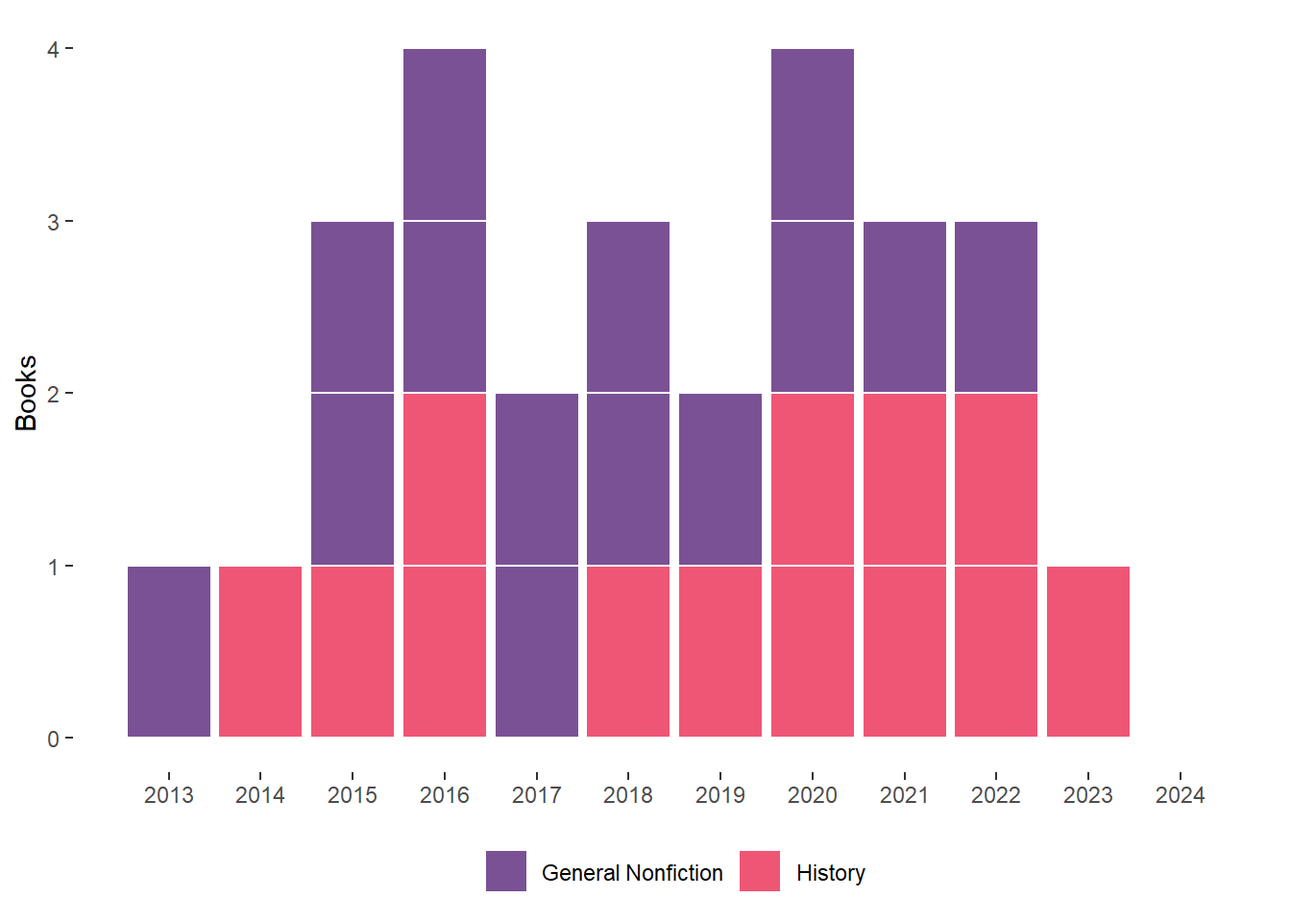
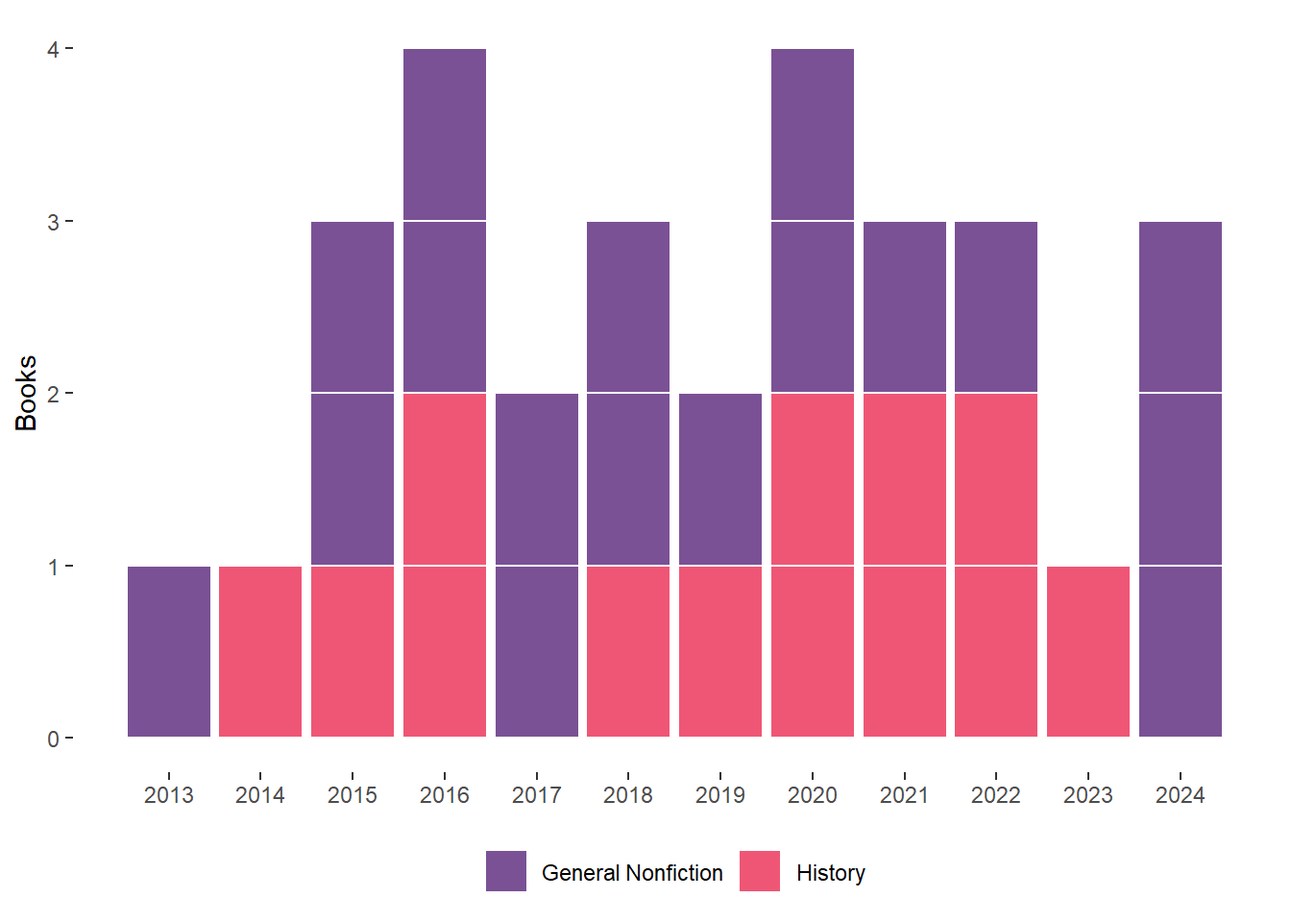
Add a few books and re-run

Changed region(s): [[0.875, 0.2188, 0.9688, 0.8125]]

diff --git a/pullitzer.html b/pullitzer.html
@@ -13,7 +13,7 @@
 
 <title>Pulitzer Progress</title>
 
-<script src="site_libs/header-attrs-2.26/header-attrs.js"></script>
+<script src="site_libs/header-attrs-2.27/header-attrs.js"></script>
 <script src="site_libs/jquery-3.6.0/jquery-3.6.0.min.js"></script>
 <meta name="viewport" content="width=device-width, initial-scale=1" />
 <link href="site_libs/bootstrap-3.3.5/css/bootstrap.min.css" rel="stylesheet" />
@@ -35,8 +35,8 @@
 <script src="site_libs/core-js-2.5.3/shim.min.js"></script>
 <script src="site_libs/react-18.2.0/react.min.js"></script>
 <script src="site_libs/react-18.2.0/react-dom.min.js"></script>
-<script src="site_libs/reactwidget-1.0.0/react-tools.js"></script>
-<link href="site_libs/htmltools-fill-0.5.8/fill.css" rel="stylesheet" />
+<script src="site_libs/reactwidget-2.0.0/react-tools.umd.cjs"></script>
+<link href="site_libs/htmltools-fill-0.5.8.1/fill.css" rel="stylesheet" />
 <script src="site_libs/htmlwidgets-1.6.4/htmlwidgets.js"></script>
 <link href="site_libs/reactable-0.4.4/reactable.css" rel="stylesheet" />
 <script src="site_libs/reactable-binding-0.4.4/reactable.js"></script>
@@ -296,8 +296,8 @@ class="section level5">
 <h2>The full list</h2>
 <p>These are the finalists and winners of general nonfiction and
 history, and my progress in reading them.</p>
-<div class="reactable html-widget html-fill-item" id="htmlwidget-27e1b85ea96d586fce6d" style="width:auto;height:auto;"></div>
-<script type="application/json" data-for="htmlwidget-27e1b85ea96d586fce6d">{"x":{"tag":{"name":"Reactable","attribs":{"data":{"year":[2024,2024,2024,2024,2024,2024,2023,2023,2023,2023,2023,2023,2023,2022,2022,2022,2022,2022,2022,2021,2021,2021,2021,2021,2021,2020,2020,2020,2020,2020,2020,2019,2019,2019,2019,2019,2019,2018,2018,2018,2018,2018,2018,2017,2017,2017,2017,2017,2017,2016,2016,2016,2016,2016,2016,2016,2015,2015,2015,2015,2015,2015,2014,2014,2014,2014,2014,2014,2013,2013,2013,2013,2013,2013,2012,2012,2012,2012,2012,2011,2011,2011,2011,2011,2011,2010,2010,2010],"short.title":["No Right to an Honest Living","American Anarchy","Continental Reckoning","A Day in the Life of Abed Salama","Fire Weather","Cobalt Red","Freedom's Dominion","Seeing Red","Watergate","His Name Is George Floyd","Kingdom of Characters","Sounds Wild and Broken","Under the Skin","Covered with Night","Cuba","Until Justice Be Done","Invisible Child","Home, Land, Security","The Family Roe","Franchise","The Three-Cornered War","The Deviant's War","Wilmington's Lie","Minor Feelings","Yellow Bird","Sweet Taste of Liberty ","Race for Profit","The End of the Myth ","The Undying","Solitary","Elderhood","Frederick Douglass ","American Eden ","Civilizing Torture ","Amity and Prosperity","In a Day's Work","Rising","The Gulf","Fear City","Hitler in Los Angeles ","Locking Up Our Own ","Notes on a Foreign Country ","The Evolution of Beauty","Blood in the Water ","Brothers at Arms","New England Bound","Evicted","In a Different Key ","The Politics of Mourning ","Custer's Trials","Marching Home","Target Tokyo","The Pentagon's Brain","Black Flags","Between the World and Me","If the Oceans Were Ink ","Encounters at the Heart of the World","An Empire on the Edge","Empire of Cotton","The Sixth Extinction","Age of Ambition","No Good Men Among the Living","The Internal Enemy","A Dreadful Deceit","Command and Control","Toms River","The Blood Telegram","The Insurgents","Embers of War","Lincoln's Code","The Barbarous Years","Devil in the Grove","Behind the Beautiful Forevers","The Forest Unseen","Malcolm X","Empires, Nations & Families","Railroaded","The Eleventh Day","Minor Feelings","The Fiery Trial","Confederate Reckoning","Eden on the Charles","The Emperor of All Maladies","Empire of the Summer Moon","The Shallows","Lords of Finance","Empire of Liberty","Fordlandia"],"author":["Jacqueline Jones","Michael Willrich","Elliott West","Nathan Thrall","John Vaillant","Siddharth Kara","Jefferson Cowie","Michael John Witgen","Garrett M. Graff","Robert Samuels and Toluse Olorunnipa","Jing Tsu","David George Haskell","Linda Villarosa","Nicole Eustace","Ada Ferrer","Kate Masur","Andrea Elliott","Carla Power","Joshua Prager","Marcia Chatelain","Megan Kate Nelson","Eric Cervini","David Zucchino","Cathy Park Hong","Sierra Crane Murdoch","W. Caleb McDaniel","Keeanga-Yamahtta Taylor","Greg Grandin","Anne Boyer","Albert Woodfox","Louise Aronson","David W. Blight","Victoria Johnson","W. Fitzhugh Brundage","Eliza Griswold","Bernice Yeung","Elizabeth Rush","Jack E. Davis","Kim Phillips-Fein","Steven J. Ross","James Forman Jr.","Suzy Hansen","Richard O. Prum","Heather Ann Thompson","Larrie D. Ferreiro","Wendy Warren","Matthew Desmond","John Donvan and Caren Zucker","Micki McElya","T.J. Stiles","Brian Matthew Jordan","James M. Scott","Annie Jacobsen","Joby Warrick","Ta-Nehisi Coates","Carla Power","Elizabeth A. Fenn","Nick Bunker","Steven Beckert","Elizabeth Kolbert","Evan Osnos","Anand Gopal","Alan Taylor","Jacqueline Jones","Eric Schlosser","Dan Fagin","Gary J. Bass","Fred Kaplan","Fredrik Logeval","John Fabian Witt","Bernard Bailyn","Gilbert King","Katherine Boo","David George Haskell","Manning Marable","Anne F. Hyde","Richard White","Anthony Summers and Robbyn Swan","Cathy Park Hong","Eric Foner","Stephanie McCurry","Michael Rawson","Siddhartha Mukherjee","S.C. Gwynne","Nicholas Carr","Liaquat Ahamed","Gordon S. Wood","Greg Grandin"],"read":["No","No","No","No","No","No","No","No","Yes","No","No","No","No","Yes","Yes","No","No","Yes","No","Yes","Yes","No","No","No","Yes","Yes","Yes","Yes","No","Yes","No","No","No","Yes","Yes","No","No","Yes","No","No","Yes","No","Yes","No","No","No","Yes","Yes","No","Yes","No","No","Yes","Yes","Yes","No","Yes","No","No","No","Yes","Yes","No","No","Yes","No","No","No","No","No","No","No","Yes","No","No","No","No","No","No","No","No","No","No","No","No","No","No","No"],"award":["Winner","Finalist","Finalist","Winner","Finalist","Finalist","Winner","Finalist","Finalist","Winner","Finalist","Finalist","Finalist","Winner","Winner","Finalist","Winner","Finalist","Finalist","Winner","Finalist","Finalist","Winner","Finalist","Finalist","Winner","Finalist","Winner","Winner","Finalist","Finalist","Winner","Finalist","Finalist","Winner","Finalist","Finalist","Winner","Finalist","Finalist","Winner","Finalist","Finalist","Winner","Finalist","Finalist","Winner","Finalist","Finalist","Winner","Finalist","Finalist","Finalist","Winner","Finalist","Finalist","Winner","Finalist","Finalist","Winner","Finalist","Finalist","Winner","Finalist","Finalist","Winner","Finalist","Finalist","Winner","Finalist","Finalist","Winner","Finalist","Finalist","Winner","Finalist","Finalist","Finalist","Finalist","Winner","Finalist","Finalist","Winner","Finalist","Finalist","Winner","Finalist","Finalist"],"category":["History","History","History","General Non-Fiction","General Non-Fiction","General Non-Fiction","History","History","History","General Non-Fiction","General Non-Fiction","General Non-Fiction","General Non-Fiction","History","History","History","General Non-Fiction","General Non-Fiction","General Non-Fiction","History","History","History","General Non-Fiction","General Non-Fiction","General Non-Fiction","History","History","General Non-Fiction","General Non-Fiction","General Non-Fiction","General Non-Fiction","History","History","History","General Non-Fiction","General Non-Fiction","General Non-Fiction","History","History","History","General Non-Fiction","General Non-Fiction","General Non-Fiction","History","History","History","General Non-Fiction","General Non-Fiction","General Non-Fiction","History","History","History","History","General Non-Fiction","General Non-Fiction","General Non-Fiction","History","History","History","General Non-Fiction","General Non-Fiction","General Non-Fiction","History","History","History","General Non-Fiction","General Non-Fiction","General Non-Fiction","History","History","History","General Non-Fiction","General Non-Fiction","General Non-Fiction","History","History","History","History","General Non-Fiction","History","History","History","General Non-Fiction","General Non-Fiction","General Non-Fiction","History","History","History"]},"columns":[{"id":"year","name":"Year","type":"numeric"},{"id":"short.title","name":"Title","type":"character","minWidth":150},{"id":"author","name":"Author","type":"character"},{"id":"read","name":"Read","type":"character","cell":["❌","❌","❌","❌","❌","❌","❌","❌","✔","❌","❌","❌","❌","✔","✔","❌","❌","✔","❌","✔","✔","❌","❌","❌","✔","✔","✔","✔","❌","✔","❌","❌","❌","✔","✔","❌","❌","✔","❌","❌","✔","❌","✔","❌","❌","❌","✔","✔","❌","✔","❌","❌","✔","✔","✔","❌","✔","❌","❌","❌","✔","✔","❌","❌","✔","❌","❌","❌","❌","❌","❌","❌","✔","❌","❌","❌","❌","❌","❌","❌","❌","❌","❌","❌","❌","❌","❌","❌"],"maxWidth":75},{"id":"award","name":"Award","type":"character"},{"id":"category","name":"Category","type":"character"}],"defaultPageSize":20,"showSortable":true,"rowStyle":[null,null,null,null,null,null,null,null,{"fontWeight":"bold"},null,null,null,null,{"fontWeight":"bold"},{"fontWeight":"bold"},null,null,{"fontWeight":"bold"},null,{"fontWeight":"bold"},{"fontWeight":"bold"},null,null,null,{"fontWeight":"bold"},{"fontWeight":"bold"},{"fontWeight":"bold"},{"fontWeight":"bold"},null,{"fontWeight":"bold"},null,null,null,{"fontWeight":"bold"},{"fontWeight":"bold"},null,null,{"fontWeight":"bold"},null,null,{"fontWeight":"bold"},null,{"fontWeight":"bold"},null,null,null,{"fontWeight":"bold"},{"fontWeight":"bold"},null,{"fontWeight":"bold"},null,null,{"fontWeight":"bold"},{"fontWeight":"bold"},{"fontWeight":"bold"},null,{"fontWeight":"bold"},null,null,null,{"fontWeight":"bold"},{"fontWeight":"bold"},null,null,{"fontWeight":"bold"},null,null,null,null,null,null,null,{"fontWeight":"bold"},null,null,null,null,null,null,null,null,null,null,null,null,null,null,null],"dataKey":"466598b216a330bb86b3515a160176bf"},"children":[]},"class":"reactR_markup"},"evals":[],"jsHooks":[]}</script>
+<div class="reactable html-widget html-fill-item" id="htmlwidget-7cc1327cee5b33ecdeef" style="width:auto;height:auto;"></div>
+<script type="application/json" data-for="htmlwidget-7cc1327cee5b33ecdeef">{"x":{"tag":{"name":"Reactable","attribs":{"data":{"year":[2024,2024,2024,2024,2024,2024,2023,2023,2023,2023,2023,2023,2023,2022,2022,2022,2022,2022,2022,2021,2021,2021,2021,2021,2021,2020,2020,2020,2020,2020,2020,2019,2019,2019,2019,2019,2019,2018,2018,2018,2018,2018,2018,2017,2017,2017,2017,2017,2017,2016,2016,2016,2016,2016,2016,2016,2015,2015,2015,2015,2015,2015,2014,2014,2014,2014,2014,2014,2013,2013,2013,2013,2013,2013,2012,2012,2012,2012,2012,2011,2011,2011,2011,2011,2011,2010,2010,2010],"short.title":["No Right to an Honest Living","American Anarchy","Continental Reckoning","A Day in the Life of Abed Salama","Fire Weather","Cobalt Red","Freedom's Dominion","Seeing Red","Watergate","His Name Is George Floyd","Kingdom of Characters","Sounds Wild and Broken","Under the Skin","Covered with Night","Cuba","Until Justice Be Done","Invisible Child","Home, Land, Security","The Family Roe","Franchise","The Three-Cornered War","The Deviant's War","Wilmington's Lie","Minor Feelings","Yellow Bird","Sweet Taste of Liberty ","Race for Profit","The End of the Myth ","The Undying","Solitary","Elderhood","Frederick Douglass ","American Eden ","Civilizing Torture ","Amity and Prosperity","In a Day's Work","Rising","The Gulf","Fear City","Hitler in Los Angeles ","Locking Up Our Own ","Notes on a Foreign Country ","The Evolution of Beauty","Blood in the Water ","Brothers at Arms","New England Bound","Evicted","In a Different Key ","The Politics of Mourning ","Custer's Trials","Marching Home","Target Tokyo","The Pentagon's Brain","Black Flags","Between the World and Me","If the Oceans Were Ink ","Encounters at the Heart of the World","An Empire on the Edge","Empire of Cotton","The Sixth Extinction","Age of Ambition","No Good Men Among the Living","The Internal Enemy","A Dreadful Deceit","Command and Control","Toms River","The Blood Telegram","The Insurgents","Embers of War","Lincoln's Code","The Barbarous Years","Devil in the Grove","Behind the Beautiful Forevers","The Forest Unseen","Malcolm X","Empires, Nations & Families","Railroaded","The Eleventh Day","Minor Feelings","The Fiery Trial","Confederate Reckoning","Eden on the Charles","The Emperor of All Maladies","Empire of the Summer Moon","The Shallows","Lords of Finance","Empire of Liberty","Fordlandia"],"author":["Jacqueline Jones","Michael Willrich","Elliott West","Nathan Thrall","John Vaillant","Siddharth Kara","Jefferson Cowie","Michael John Witgen","Garrett M. Graff","Robert Samuels and Toluse Olorunnipa","Jing Tsu","David George Haskell","Linda Villarosa","Nicole Eustace","Ada Ferrer","Kate Masur","Andrea Elliott","Carla Power","Joshua Prager","Marcia Chatelain","Megan Kate Nelson","Eric Cervini","David Zucchino","Cathy Park Hong","Sierra Crane Murdoch","W. Caleb McDaniel","Keeanga-Yamahtta Taylor","Greg Grandin","Anne Boyer","Albert Woodfox","Louise Aronson","David W. Blight","Victoria Johnson","W. Fitzhugh Brundage","Eliza Griswold","Bernice Yeung","Elizabeth Rush","Jack E. Davis","Kim Phillips-Fein","Steven J. Ross","James Forman Jr.","Suzy Hansen","Richard O. Prum","Heather Ann Thompson","Larrie D. Ferreiro","Wendy Warren","Matthew Desmond","John Donvan and Caren Zucker","Micki McElya","T.J. Stiles","Brian Matthew Jordan","James M. Scott","Annie Jacobsen","Joby Warrick","Ta-Nehisi Coates","Carla Power","Elizabeth A. Fenn","Nick Bunker","Steven Beckert","Elizabeth Kolbert","Evan Osnos","Anand Gopal","Alan Taylor","Jacqueline Jones","Eric Schlosser","Dan Fagin","Gary J. Bass","Fred Kaplan","Fredrik Logeval","John Fabian Witt","Bernard Bailyn","Gilbert King","Katherine Boo","David George Haskell","Manning Marable","Anne F. Hyde","Richard White","Anthony Summers and Robbyn Swan","Cathy Park Hong","Eric Foner","Stephanie McCurry","Michael Rawson","Siddhartha Mukherjee","S.C. Gwynne","Nicholas Carr","Liaquat Ahamed","Gordon S. Wood","Greg Grandin"],"read":["No","No","No","Yes","Yes","Yes","No","No","Yes","No","No","No","No","Yes","Yes","No","No","Yes","No","Yes","Yes","No","No","No","Yes","Yes","Yes","Yes","No","Yes","No","No","No","Yes","Yes","No","No","Yes","No","No","Yes","No","Yes","No","No","No","Yes","Yes","No","Yes","No","No","Yes","Yes","Yes","No","Yes","No","No","No","Yes","Yes","No","No","Yes","No","No","No","No","No","No","No","Yes","No","No","No","No","No","No","No","No","No","No","No","No","No","No","No"],"award":["Winner","Finalist","Finalist","Winner","Finalist","Finalist","Winner","Finalist","Finalist","Winner","Finalist","Finalist","Finalist","Winner","Winner","Finalist","Winner","Finalist","Finalist","Winner","Finalist","Finalist","Winner","Finalist","Finalist","Winner","Finalist","Winner","Winner","Finalist","Finalist","Winner","Finalist","Finalist","Winner","Finalist","Finalist","Winner","Finalist","Finalist","Winner","Finalist","Finalist","Winner","Finalist","Finalist","Winner","Finalist","Finalist","Winner","Finalist","Finalist","Finalist","Winner","Finalist","Finalist","Winner","Finalist","Finalist","Winner","Finalist","Finalist","Winner","Finalist","Finalist","Winner","Finalist","Finalist","Winner","Finalist","Finalist","Winner","Finalist","Finalist","Winner","Finalist","Finalist","Finalist","Finalist","Winner","Finalist","Finalist","Winner","Finalist","Finalist","Winner","Finalist","Finalist"],"category":["History","History","History","General Non-Fiction","General Non-Fiction","General Non-Fiction","History","History","History","General Non-Fiction","General Non-Fiction","General Non-Fiction","General Non-Fiction","History","History","History","General Non-Fiction","General Non-Fiction","General Non-Fiction","History","History","History","General Non-Fiction","General Non-Fiction","General Non-Fiction","History","History","General Non-Fiction","General Non-Fiction","General Non-Fiction","General Non-Fiction","History","History","History","General Non-Fiction","General Non-Fiction","General Non-Fiction","History","History","History","General Non-Fiction","General Non-Fiction","General Non-Fiction","History","History","History","General Non-Fiction","General Non-Fiction","General Non-Fiction","History","History","History","History","General Non-Fiction","General Non-Fiction","General Non-Fiction","History","History","History","General Non-Fiction","General Non-Fiction","General Non-Fiction","History","History","History","General Non-Fiction","General Non-Fiction","General Non-Fiction","History","History","History","General Non-Fiction","General Non-Fiction","General Non-Fiction","History","History","History","History","General Non-Fiction","History","History","History","General Non-Fiction","General Non-Fiction","General Non-Fiction","History","History","History"]},"columns":[{"id":"year","name":"Year","type":"numeric"},{"id":"short.title","name":"Title","type":"character","minWidth":150},{"id":"author","name":"Author","type":"character"},{"id":"read","name":"Read","type":"character","cell":["❌","❌","❌","✔","✔","✔","❌","❌","✔","❌","❌","❌","❌","✔","✔","❌","❌","✔","❌","✔","✔","❌","❌","❌","✔","✔","✔","✔","❌","✔","❌","❌","❌","✔","✔","❌","❌","✔","❌","❌","✔","❌","✔","❌","❌","❌","✔","✔","❌","✔","❌","❌","✔","✔","✔","❌","✔","❌","❌","❌","✔","✔","❌","❌","✔","❌","❌","❌","❌","❌","❌","❌","✔","❌","❌","❌","❌","❌","❌","❌","❌","❌","❌","❌","❌","❌","❌","❌"],"maxWidth":75},{"id":"award","name":"Award","type":"character"},{"id":"category","name":"Category","type":"character"}],"defaultPageSize":20,"showSortable":true,"rowStyle":[null,null,null,{"fontWeight":"bold"},{"fontWeight":"bold"},{"fontWeight":"bold"},null,null,{"fontWeight":"bold"},null,null,null,null,{"fontWeight":"bold"},{"fontWeight":"bold"},null,null,{"fontWeight":"bold"},null,{"fontWeight":"bold"},{"fontWeight":"bold"},null,null,null,{"fontWeight":"bold"},{"fontWeight":"bold"},{"fontWeight":"bold"},{"fontWeight":"bold"},null,{"fontWeight":"bold"},null,null,null,{"fontWeight":"bold"},{"fontWeight":"bold"},null,null,{"fontWeight":"bold"},null,null,{"fontWeight":"bold"},null,{"fontWeight":"bold"},null,null,null,{"fontWeight":"bold"},{"fontWeight":"bold"},null,{"fontWeight":"bold"},null,null,{"fontWeight":"bold"},{"fontWeight":"bold"},{"fontWeight":"bold"},null,{"fontWeight":"bold"},null,null,null,{"fontWeight":"bold"},{"fontWeight":"bold"},null,null,{"fontWeight":"bold"},null,null,null,null,null,null,null,{"fontWeight":"bold"},null,null,null,null,null,null,null,null,null,null,null,null,null,null,null],"dataKey":"438ebcd9dea1dc5d61cd18c2553869bc"},"children":[]},"class":"reactR_markup"},"evals":[],"jsHooks":[]}</script>
 </div>
 
 

diff --git a/index.html b/index.html
@@ -13,7 +13,7 @@
 
 <title>Book Reading</title>
 
-<script src="site_libs/header-attrs-2.26/header-attrs.js"></script>
+<script src="site_libs/header-attrs-2.27/header-attrs.js"></script>
 <script src="site_libs/jquery-3.6.0/jquery-3.6.0.min.js"></script>
 <meta name="viewport" content="width=device-width, initial-scale=1" />
 <link href="site_libs/bootstrap-3.3.5/css/bootstrap.min.css" rel="stylesheet" />
@@ -32,7 +32,7 @@
 <script src="site_libs/navigation-1.1/tabsets.js"></script>
 <link href="site_libs/highlightjs-9.12.0/default.css" rel="stylesheet" />
 <script src="site_libs/highlightjs-9.12.0/highlight.js"></script>
-<link href="site_libs/htmltools-fill-0.5.8/fill.css" rel="stylesheet" />
+<link href="site_libs/htmltools-fill-0.5.8.1/fill.css" rel="stylesheet" />
 <script src="site_libs/htmlwidgets-1.6.4/htmlwidgets.js"></script>
 <script src="site_libs/plotly-binding-4.10.4/plotly.js"></script>
 <script src="site_libs/typedarray-0.1/typedarray.min.js"></script>
@@ -43,7 +43,7 @@
 <script src="site_libs/core-js-2.5.3/shim.min.js"></script>
 <script src="site_libs/react-18.2.0/react.min.js"></script>
 <script src="site_libs/react-18.2.0/react-dom.min.js"></script>
-<script src="site_libs/reactwidget-1.0.0/react-tools.js"></script>
+<script src="site_libs/reactwidget-2.0.0/react-tools.umd.cjs"></script>
 <link href="site_libs/reactable-0.4.4/reactable.css" rel="stylesheet" />
 <script src="site_libs/reactable-binding-0.4.4/reactable.js"></script>
 
@@ -290,13 +290,13 @@ Pulitzer Prize winning work each year.</p>
 <h3>How I’m doing</h3>
 <p>Three years of steady progress and then a decline, and some mixed
 results in the last couple of years. It’s a journey.</p>
-<div class="plotly html-widget html-fill-item" id="htmlwidget-8d4628a853d01367fd86" style="width:100%;height:480px;"></div>
-<script type="application/json" data-for="htmlwidget-8d4628a853d01367fd86">{"x":{"visdat":{"42546abc5169":["function () ","plotlyVisDat"]},"cur_data":"42546abc5169","attrs":{"42546abc5169":{"x":{},"y":{},"mode":"lines+markers","fill":"tozeroy","alpha_stroke":1,"sizes":[10,100],"spans":[1,20],"type":"scatter"}},"layout":{"margin":{"b":40,"l":60,"t":25,"r":10},"shapes":[{"type":"line","x0":2017,"x1":2023,"y0":24,"y1":24,"line":{"width":2,"dash":"dot"}}],"yaxis":{"domain":[0,1],"automargin":true,"showline":false,"showticklabels":true,"tickcolor":"rgb(127,127,127)","ticks":"outside","zeroline":false,"range":[0,32],"dtick":4,"zerolinewidth":2,"title":"Books"},"xaxis":{"domain":[0,1],"automargin":true,"showline":true,"zerolinewidth":6,"title":"Year"},"hovermode":"closest","showlegend":false},"source":"A","config":{"modeBarButtonsToAdd":["hoverclosest","hovercompare"],"showSendToCloud":false,"responsive":true,"displayModeBar":false},"data":[{"fillcolor":"rgba(31,119,180,0.5)","x":[2017,2018,2019,2020,2021,2022,2023,2024],"y":[18,23,23,9,10,21,18,6],"mode":"lines+markers","fill":"tozeroy","type":"scatter","marker":{"color":"rgba(31,119,180,1)","line":{"color":"rgba(31,119,180,1)"}},"error_y":{"color":"rgba(31,119,180,1)"},"error_x":{"color":"rgba(31,119,180,1)"},"line":{"color":"rgba(31,119,180,1)"},"xaxis":"x","yaxis":"y","frame":null}],"highlight":{"on":"plotly_click","persistent":false,"dynamic":false,"selectize":false,"opacityDim":0.20000000000000001,"selected":{"opacity":1},"debounce":0},"shinyEvents":["plotly_hover","plotly_click","plotly_selected","plotly_relayout","plotly_brushed","plotly_brushing","plotly_clickannotation","plotly_doubleclick","plotly_deselect","plotly_afterplot","plotly_sunburstclick"],"base_url":"https://plot.ly"},"evals":[],"jsHooks":[]}</script>
+<div class="plotly html-widget html-fill-item" id="htmlwidget-14c256e7d5184a327a3a" style="width:100%;height:480px;"></div>
+<script type="application/json" data-for="htmlwidget-14c256e7d5184a327a3a">{"x":{"visdat":{"792047cd150a":["function () ","plotlyVisDat"]},"cur_data":"792047cd150a","attrs":{"792047cd150a":{"x":{},"y":{},"mode":"lines+markers","fill":"tozeroy","alpha_stroke":1,"sizes":[10,100],"spans":[1,20],"type":"scatter"}},"layout":{"margin":{"b":40,"l":60,"t":25,"r":10},"shapes":[{"type":"line","x0":2017,"x1":2024,"y0":24,"y1":24,"line":{"width":2,"dash":"dot"}}],"yaxis":{"domain":[0,1],"automargin":true,"showline":false,"showticklabels":true,"tickcolor":"rgb(127,127,127)","ticks":"outside","zeroline":false,"range":[0,32],"dtick":4,"zerolinewidth":2,"title":"Books"},"xaxis":{"domain":[0,1],"automargin":true,"showline":true,"zerolinewidth":6,"title":"Year"},"hovermode":"closest","showlegend":false},"source":"A","config":{"modeBarButtonsToAdd":["hoverclosest","hovercompare"],"showSendToCloud":false,"responsive":true,"displayModeBar":false},"data":[{"fillcolor":"rgba(31,119,180,0.5)","x":[2017,2018,2019,2020,2021,2022,2023,2024],"y":[18,23,23,9,10,21,18,10],"mode":"lines+markers","fill":"tozeroy","type":"scatter","marker":{"color":"rgba(31,119,180,1)","line":{"color":"rgba(31,119,180,1)"}},"error_y":{"color":"rgba(31,119,180,1)"},"error_x":{"color":"rgba(31,119,180,1)"},"line":{"color":"rgba(31,119,180,1)"},"xaxis":"x","yaxis":"y","frame":null}],"highlight":{"on":"plotly_click","persistent":false,"dynamic":false,"selectize":false,"opacityDim":0.20000000000000001,"selected":{"opacity":1},"debounce":0},"shinyEvents":["plotly_hover","plotly_click","plotly_selected","plotly_relayout","plotly_brushed","plotly_brushing","plotly_clickannotation","plotly_doubleclick","plotly_deselect","plotly_afterplot","plotly_sunburstclick"],"base_url":"https://plot.ly"},"evals":[],"jsHooks":[]}</script>
 </div>
 <div id="what-have-i-read-this-year" class="section level3">
 <h3>What have I read this year?</h3>
-<div class="reactable html-widget html-fill-item" id="htmlwidget-d23bedc81f60f254318c" style="width:auto;height:auto;"></div>
-<script type="application/json" data-for="htmlwidget-d23bedc81f60f254318c">{"x":{"tag":{"name":"Reactable","attribs":{"data":{"Order":[6,5,4,3,2,1],"Title":["\"The Fund: Ray Dalio, Bridgewater Associates and the Unraveling of a Wall Street Legend\"","The Tiger: A True Story of Vengeance and Survival","Code Talker","\"The Code Breaker: Jennifer Doudna, Gene Editing, and the Future of the Human Race\"","Hawaii: Islands Under the Influence","Up to Speed: The Groundbreaking Science of Women Athletes"],"Author":["Rob Copeland","John Vaillant","Chester Nez","Walter Isaacson","Noel J. Kent","Christine Yu"]},"columns":[{"id":"Order","name":"Order","type":"numeric","maxWidth":75},{"id":"Title","name":"Title","type":"character"},{"id":"Author","name":"Author","type":"character","maxWidth":300}],"showSortable":true,"dataKey":"e413a3105b31d4c1dbb6bec164ee36e2"},"children":[]},"class":"reactR_markup"},"evals":[],"jsHooks":[]}</script>
+<div class="reactable html-widget html-fill-item" id="htmlwidget-bbc41ededfefe2432c9f" style="width:auto;height:auto;"></div>
+<script type="application/json" data-for="htmlwidget-bbc41ededfefe2432c9f">{"x":{"tag":{"name":"Reactable","attribs":{"data":{"Order":[10,9,8,7,6,5,4,3,2,1],"Title":["A Day in the Life of Abed Salama: Anatomy of a Jerusalem Tragedy","Billion Dollar Whale: The Man Who Fooled Wall Street, Hollywood, and the World","Fire Weather: On the Front Lines of a Burning World","Cobalt Red: How The Blood Of The Congo Powers Our Lives","The Fund: Ray Dalio, Bridgewater Associates and the Unraveling of a Wall Street Legend","The Tiger: A True Story of Vengeance and Survival","Code Talker","The Code Breaker: Jennifer Doudna, Gene Editing, and the Future of the Human Race","Hawaii: Islands Under the Influence","Up to Speed: The Groundbreaking Science of Women Athletes"],"Author":["Nathan Thrall","Tom Wright & Bradley Hope","John Vaillant","Siddarth Kara","Rob Copeland","John Vaillant","Chester Nez","Walter Isaacson","Noel J. Kent","Christine Yu"]},"columns":[{"id":"Order","name":"Order","type":"numeric","maxWidth":75},{"id":"Title","name":"Title","type":"character"},{"id":"Author","name":"Author","type":"character","maxWidth":300}],"showSortable":true,"dataKey":"56b48a05b136cec1e09f3e109cf02c34"},"children":[]},"class":"reactR_markup"},"evals":[],"jsHooks":[]}</script>
 </div>
 
 

diff --git a/authors.html b/authors.html
@@ -13,7 +13,7 @@
 
 <title>Authors</title>
 
-<script src="site_libs/header-attrs-2.26/header-attrs.js"></script>
+<script src="site_libs/header-attrs-2.27/header-attrs.js"></script>
 <script src="site_libs/jquery-3.6.0/jquery-3.6.0.min.js"></script>
 <meta name="viewport" content="width=device-width, initial-scale=1" />
 <link href="site_libs/bootstrap-3.3.5/css/bootstrap.min.css" rel="stylesheet" />
@@ -32,7 +32,7 @@
 <script src="site_libs/navigation-1.1/tabsets.js"></script>
 <link href="site_libs/highlightjs-9.12.0/default.css" rel="stylesheet" />
 <script src="site_libs/highlightjs-9.12.0/highlight.js"></script>
-<link href="site_libs/htmltools-fill-0.5.8/fill.css" rel="stylesheet" />
+<link href="site_libs/htmltools-fill-0.5.8.1/fill.css" rel="stylesheet" />
 <script src="site_libs/htmlwidgets-1.6.4/htmlwidgets.js"></script>
 <script src="site_libs/plotly-binding-4.10.4/plotly.js"></script>
 <script src="site_libs/typedarray-0.1/typedarray.min.js"></script>
@@ -281,8 +281,8 @@ reading. Ideally, the books I read will not only entertain me, but
 expand my worldview. There are lots of ways to think and measure that,
 but a simple one is to track the backgrounds of the authors, so I’m
 starting there.</p>
-<div class="plotly html-widget html-fill-item" id="htmlwidget-2515f6c51e58fbece919" style="width:100%;height:480px;"></div>
-<script type="application/json" data-for="htmlwidget-2515f6c51e58fbece919">{"x":{"visdat":{"70f0e7463ad":["function () ","plotlyVisDat"]},"cur_data":"70f0e7463ad","attrs":{"70f0e7463ad":{"x":{},"y":{},"mode":"lines+markers","name":"Authors of Color","alpha_stroke":1,"sizes":[10,100],"spans":[1,20],"type":"scatter"},"70f0e7463ad.1":{"x":{},"y":{},"mode":"lines+markers","name":"Female Authors","alpha_stroke":1,"sizes":[10,100],"spans":[1,20],"type":"scatter","inherit":true}},"layout":{"margin":{"b":40,"l":60,"t":25,"r":10},"legend":{"orientation":"h"},"yaxis":{"domain":[0,1],"automargin":true,"title":"Percentage"},"xaxis":{"domain":[0,1],"automargin":true,"title":""},"hovermode":"closest","showlegend":true},"source":"A","config":{"modeBarButtonsToAdd":["hoverclosest","hovercompare"],"showSendToCloud":false,"displayModeBar":false},"data":[{"x":[2017,2018,2019,2020,2021,2022,2023,2024],"y":[22.199999999999999,8.6999999999999993,17.399999999999999,33.299999999999997,40,19,16.699999999999999,33.299999999999997],"mode":"lines+markers","name":"Authors of Color","type":"scatter","marker":{"color":"rgba(31,119,180,1)","line":{"color":"rgba(31,119,180,1)"}},"error_y":{"color":"rgba(31,119,180,1)"},"error_x":{"color":"rgba(31,119,180,1)"},"line":{"color":"rgba(31,119,180,1)"},"xaxis":"x","yaxis":"y","frame":null},{"x":[2017,2018,2019,2020,2021,2022,2023,2024],"y":[22.199999999999999,26.100000000000001,30.399999999999999,11.1,50,38.100000000000001,16.699999999999999,16.699999999999999],"mode":"lines+markers","name":"Female Authors","type":"scatter","marker":{"color":"rgba(255,127,14,1)","line":{"color":"rgba(255,127,14,1)"}},"error_y":{"color":"rgba(255,127,14,1)"},"error_x":{"color":"rgba(255,127,14,1)"},"line":{"color":"rgba(255,127,14,1)"},"xaxis":"x","yaxis":"y","frame":null}],"highlight":{"on":"plotly_click","persistent":false,"dynamic":false,"selectize":false,"opacityDim":0.20000000000000001,"selected":{"opacity":1},"debounce":0},"shinyEvents":["plotly_hover","plotly_click","plotly_selected","plotly_relayout","plotly_brushed","plotly_brushing","plotly_clickannotation","plotly_doubleclick","plotly_deselect","plotly_afterplot","plotly_sunburstclick"],"base_url":"https://plot.ly"},"evals":[],"jsHooks":[]}</script>
+<div class="plotly html-widget html-fill-item" id="htmlwidget-8bfae1163cd430a9aac6" style="width:100%;height:480px;"></div>
+<script type="application/json" data-for="htmlwidget-8bfae1163cd430a9aac6">{"x":{"visdat":{"47a060e378f5":["function () ","plotlyVisDat"]},"cur_data":"47a060e378f5","attrs":{"47a060e378f5":{"x":{},"y":{},"mode":"lines+markers","name":"Authors of Color","alpha_stroke":1,"sizes":[10,100],"spans":[1,20],"type":"scatter"},"47a060e378f5.1":{"x":{},"y":{},"mode":"lines+markers","name":"Female Authors","alpha_stroke":1,"sizes":[10,100],"spans":[1,20],"type":"scatter","inherit":true}},"layout":{"margin":{"b":40,"l":60,"t":25,"r":10},"legend":{"orientation":"h"},"yaxis":{"domain":[0,1],"automargin":true,"title":"Percentage"},"xaxis":{"domain":[0,1],"automargin":true,"title":""},"hovermode":"closest","showlegend":true},"source":"A","config":{"modeBarButtonsToAdd":["hoverclosest","hovercompare"],"showSendToCloud":false,"displayModeBar":false},"data":[{"x":[2017,2018,2019,2020,2021,2022,2023,2024],"y":[22.199999999999999,8.6999999999999993,17.399999999999999,33.299999999999997,40,19,16.699999999999999,30],"mode":"lines+markers","name":"Authors of Color","type":"scatter","marker":{"color":"rgba(31,119,180,1)","line":{"color":"rgba(31,119,180,1)"}},"error_y":{"color":"rgba(31,119,180,1)"},"error_x":{"color":"rgba(31,119,180,1)"},"line":{"color":"rgba(31,119,180,1)"},"xaxis":"x","yaxis":"y","frame":null},{"x":[2017,2018,2019,2020,2021,2022,2023,2024],"y":[22.199999999999999,26.100000000000001,30.399999999999999,11.1,50,38.100000000000001,16.699999999999999,10],"mode":"lines+markers","name":"Female Authors","type":"scatter","marker":{"color":"rgba(255,127,14,1)","line":{"color":"rgba(255,127,14,1)"}},"error_y":{"color":"rgba(255,127,14,1)"},"error_x":{"color":"rgba(255,127,14,1)"},"line":{"color":"rgba(255,127,14,1)"},"xaxis":"x","yaxis":"y","frame":null}],"highlight":{"on":"plotly_click","persistent":false,"dynamic":false,"selectize":false,"opacityDim":0.20000000000000001,"selected":{"opacity":1},"debounce":0},"shinyEvents":["plotly_hover","plotly_click","plotly_selected","plotly_relayout","plotly_brushed","plotly_brushing","plotly_clickannotation","plotly_doubleclick","plotly_deselect","plotly_afterplot","plotly_sunburstclick"],"base_url":"https://plot.ly"},"evals":[],"jsHooks":[]}</script>
 
 
 

diff --git a/site_libs/htmltools-fill-0.5.8.1/fill.css b/site_libs/htmltools-fill-0.5.8.1/fill.css
@@ -1,0 +1,21 @@
+@layer htmltools {
+  .html-fill-container {
+    display: flex;
+    flex-direction: column;
+    /* Prevent the container from expanding vertically or horizontally beyond its
+    parent's constraints. */
+    min-height: 0;
+    min-width: 0;
+  }
+  .html-fill-container > .html-fill-item {
+    /* Fill items can grow and shrink freely within
+    available vertical space in fillable container */
+    flex: 1 1 auto;
+    min-height: 0;
+    min-width: 0;
+  }
+  .html-fill-container > :not(.html-fill-item) {
+    /* Prevent shrinking or growing of non-fill items */
+    flex: 0 0 auto;
+  }
+}

diff --git a/site_libs/header-attrs-2.27/header-attrs.js b/site_libs/header-attrs-2.27/header-attrs.js
@@ -1,0 +1,12 @@
+// Pandoc 2.9 adds attributes on both header and div. We remove the former (to
+// be compatible with the behavior of Pandoc < 2.8).
+document.addEventListener('DOMContentLoaded', function(e) {
+  var hs = document.querySelectorAll("div.section[class*='level'] > :first-child");
+  var i, h, a;
+  for (i = 0; i < hs.length; i++) {
+    h = hs[i];
+    if (!/^h[1-6]$/i.test(h.tagName)) continue;  // it should be a header h1-h6
+    a = h.attributes;
+    while (a.length > 0) h.removeAttribute(a[0].name);
+  }
+});
